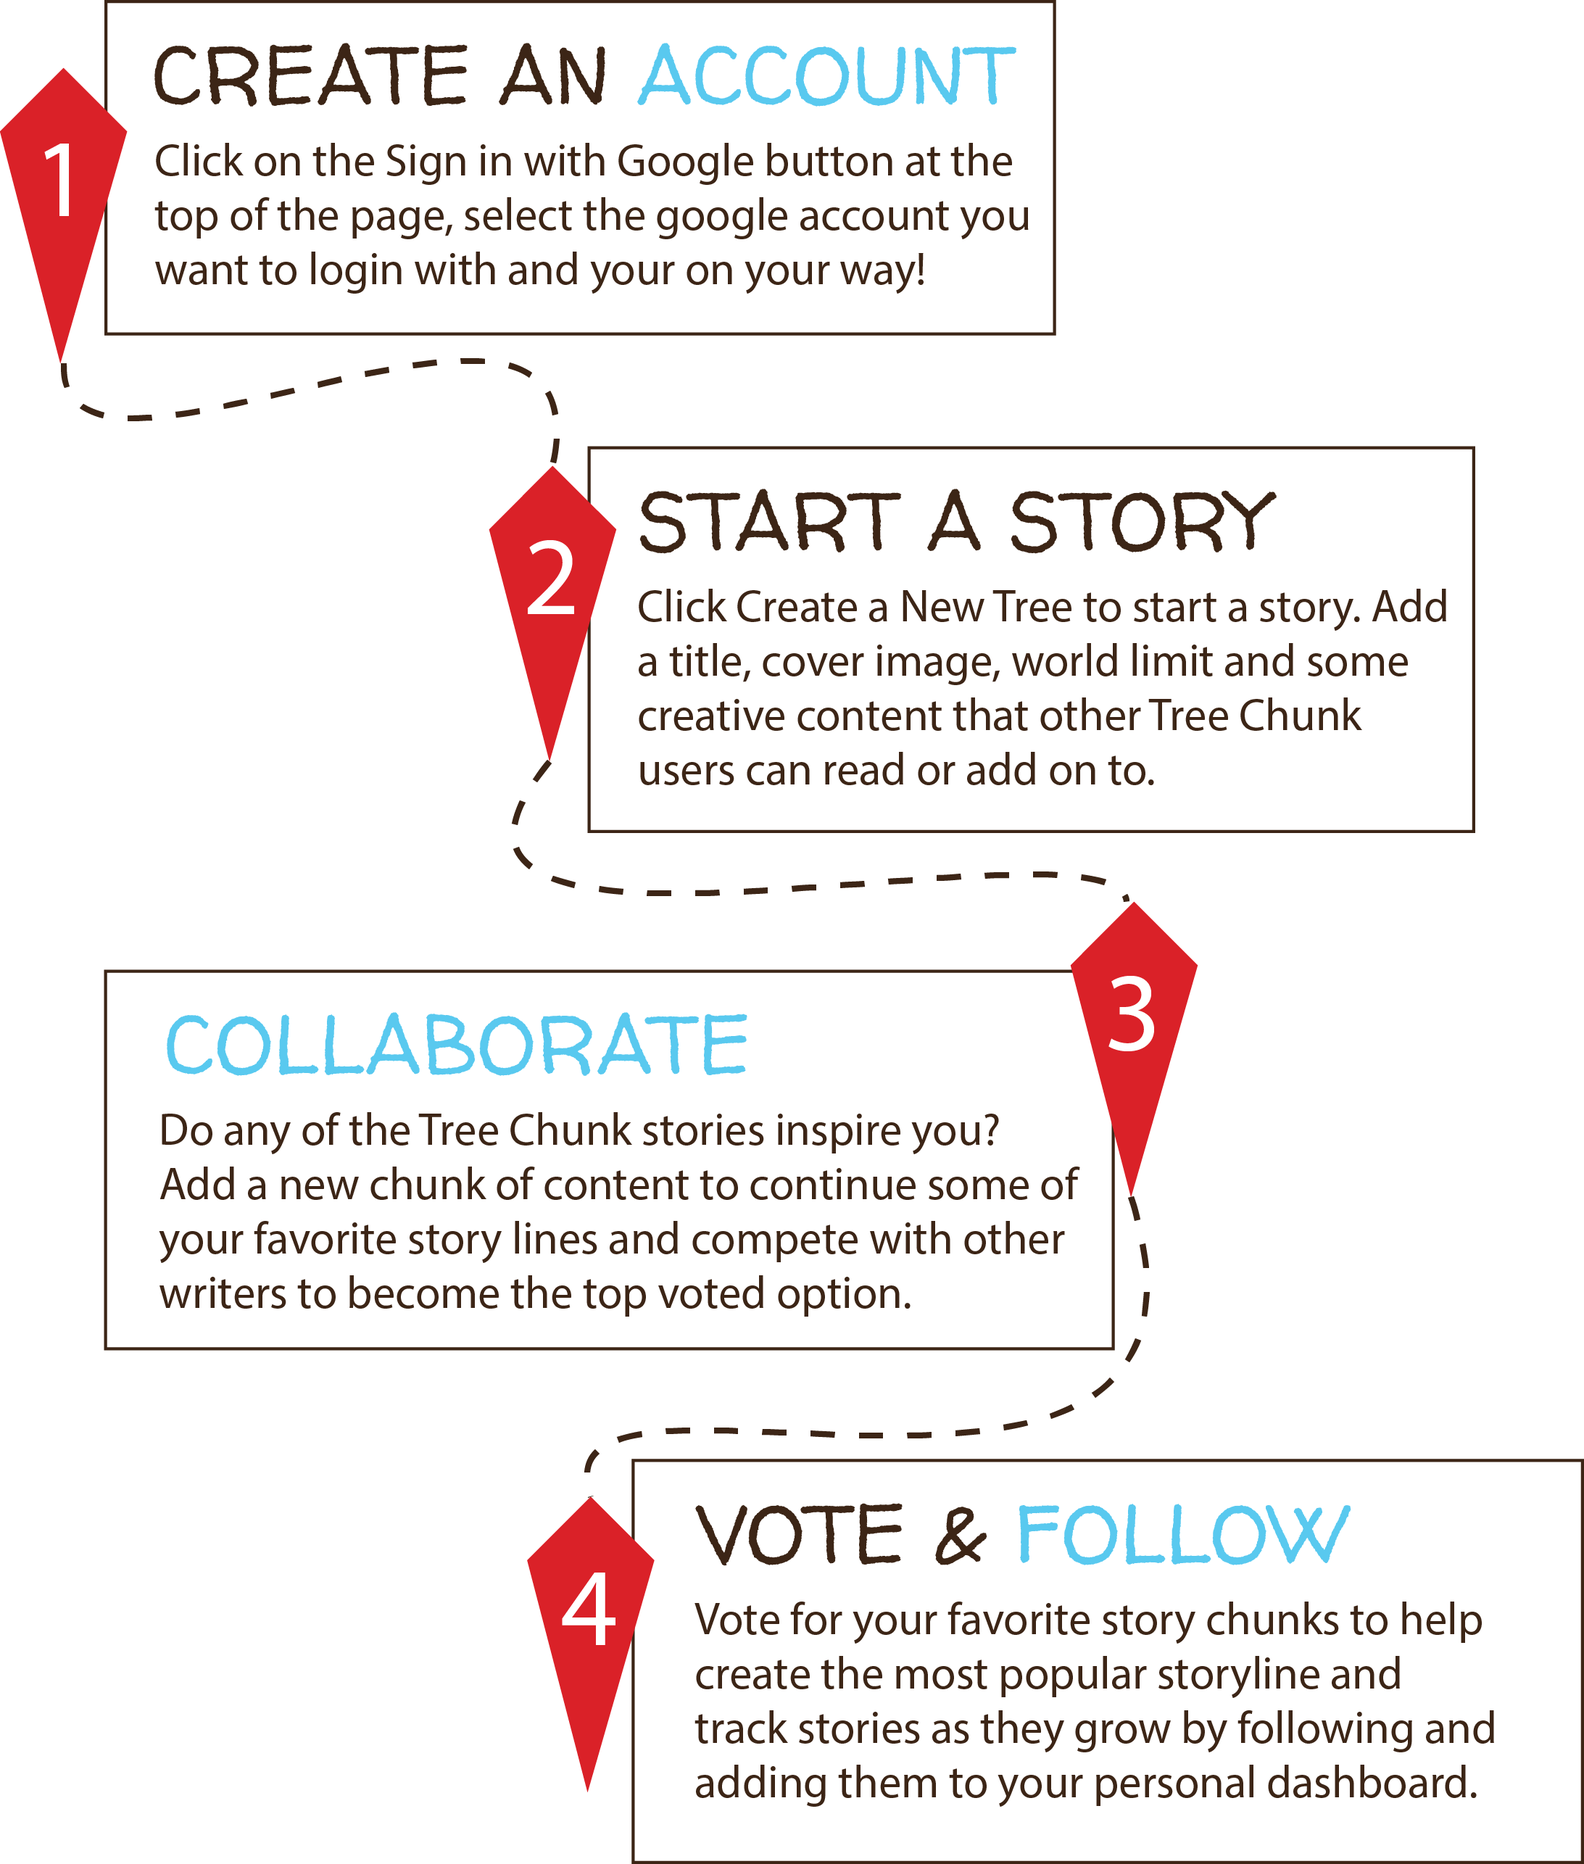
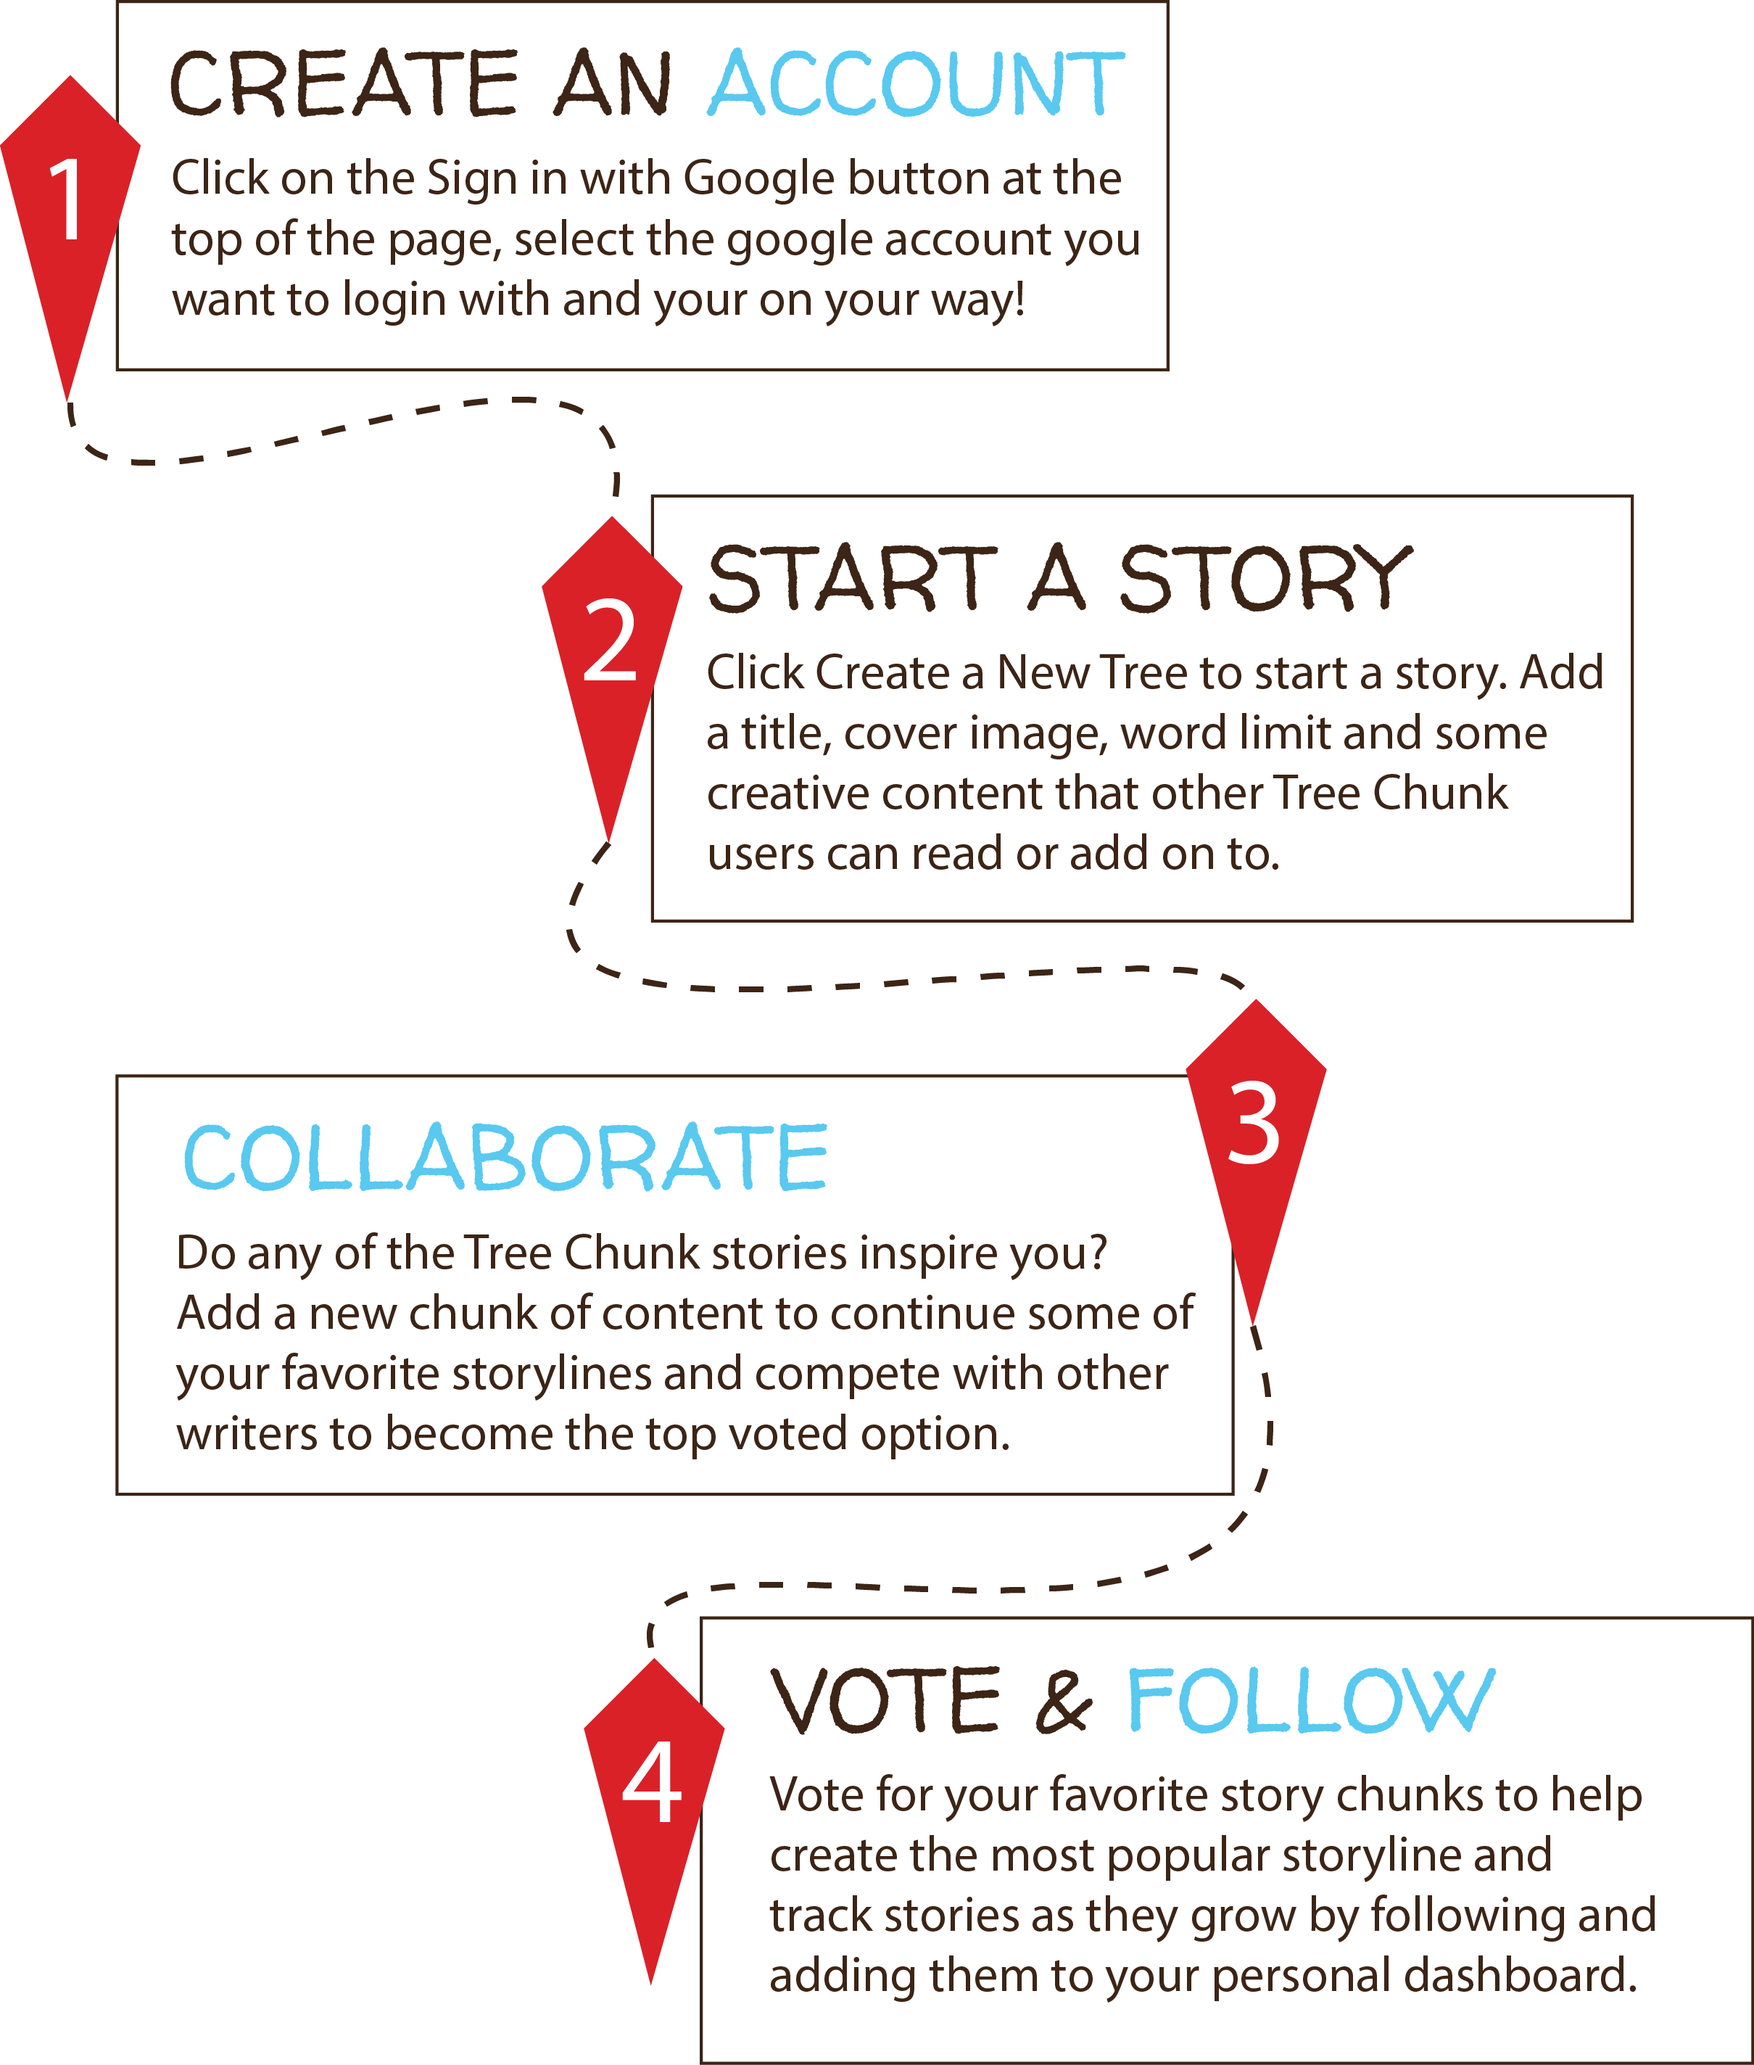
changed about image size and adjusted margin

diff --git a/src/components/AboutModal.js b/src/components/AboutModal.js
@@ -18,7 +18,7 @@ class AboutModal extends React.Component {
         <Modal.Header closeButton>
           <Modal.Title id="contained-modal-title-lg card-text">About</Modal.Title>
         </Modal.Header>
-        <Modal.Body style={{margin: "50px"}}>
+        <Modal.Body className="about-text" style={{margin: "50px"}}>
           <img className="image-fluid" src="/images/aboutModal.png" style={{maxWidth: "100%", height: "auto"}}/>
         </Modal.Body>
         <Modal.Footer>

diff --git a/src/public/style.css b/src/public/style.css
@@ -249,3 +249,7 @@ body {
 .modal-header {
   background-color: #59c9ef;
 }
+
+.about-text {
+  margin: 10px !important;
+}
